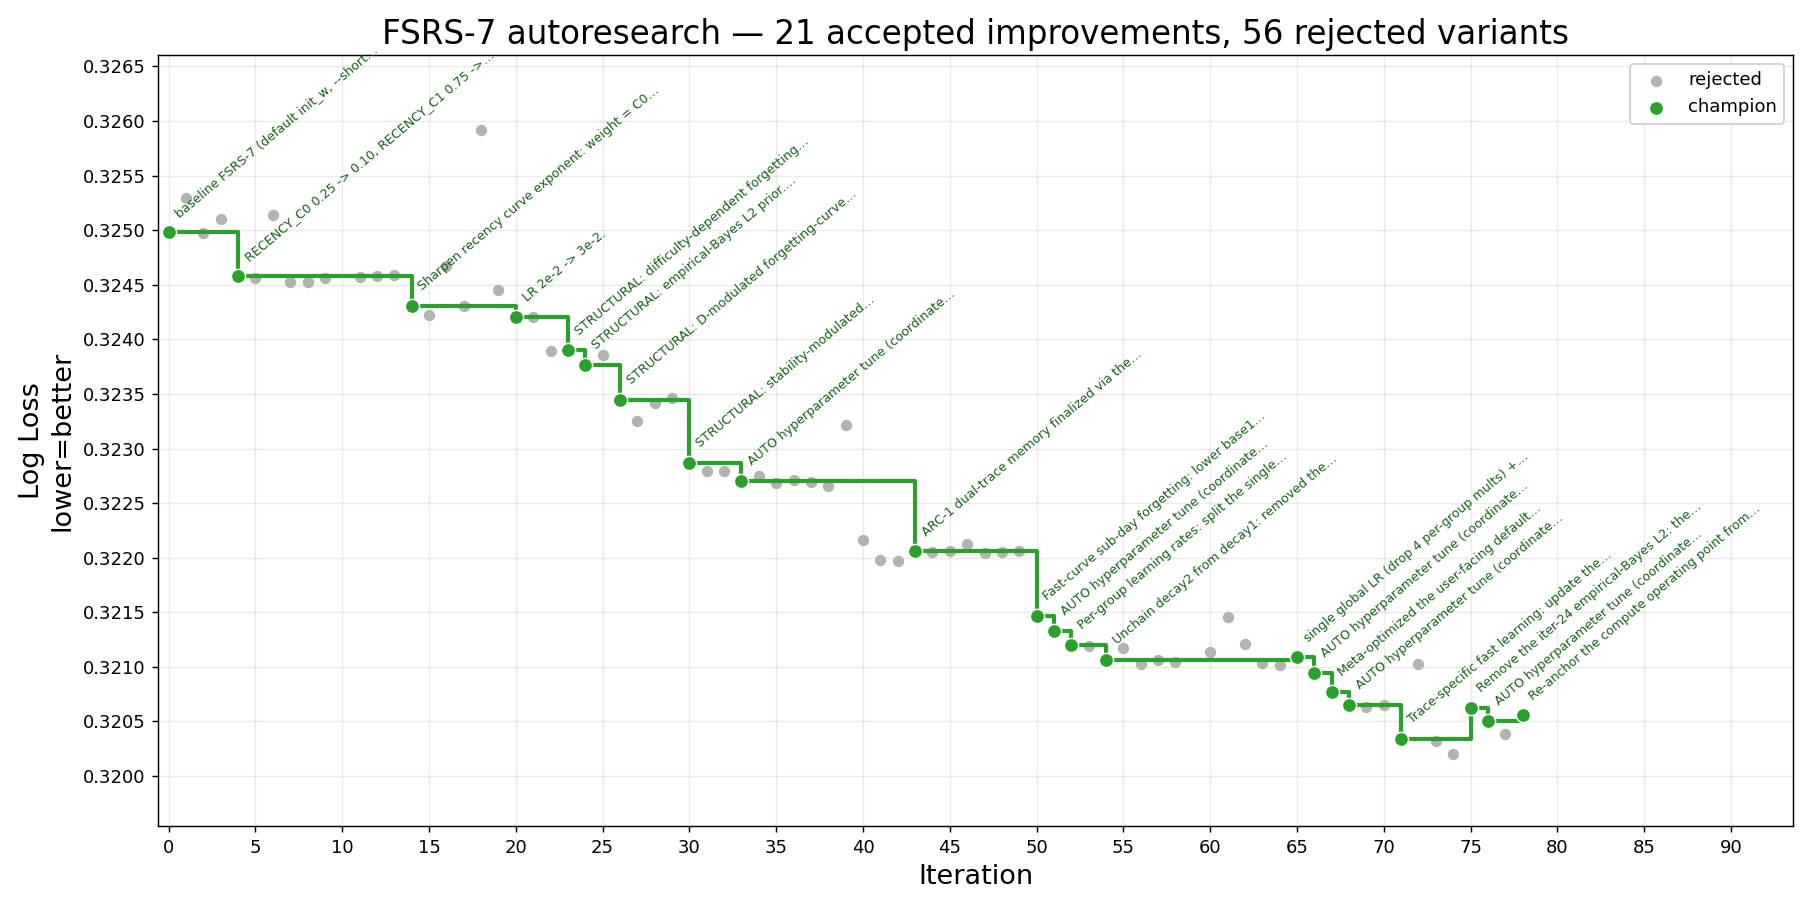
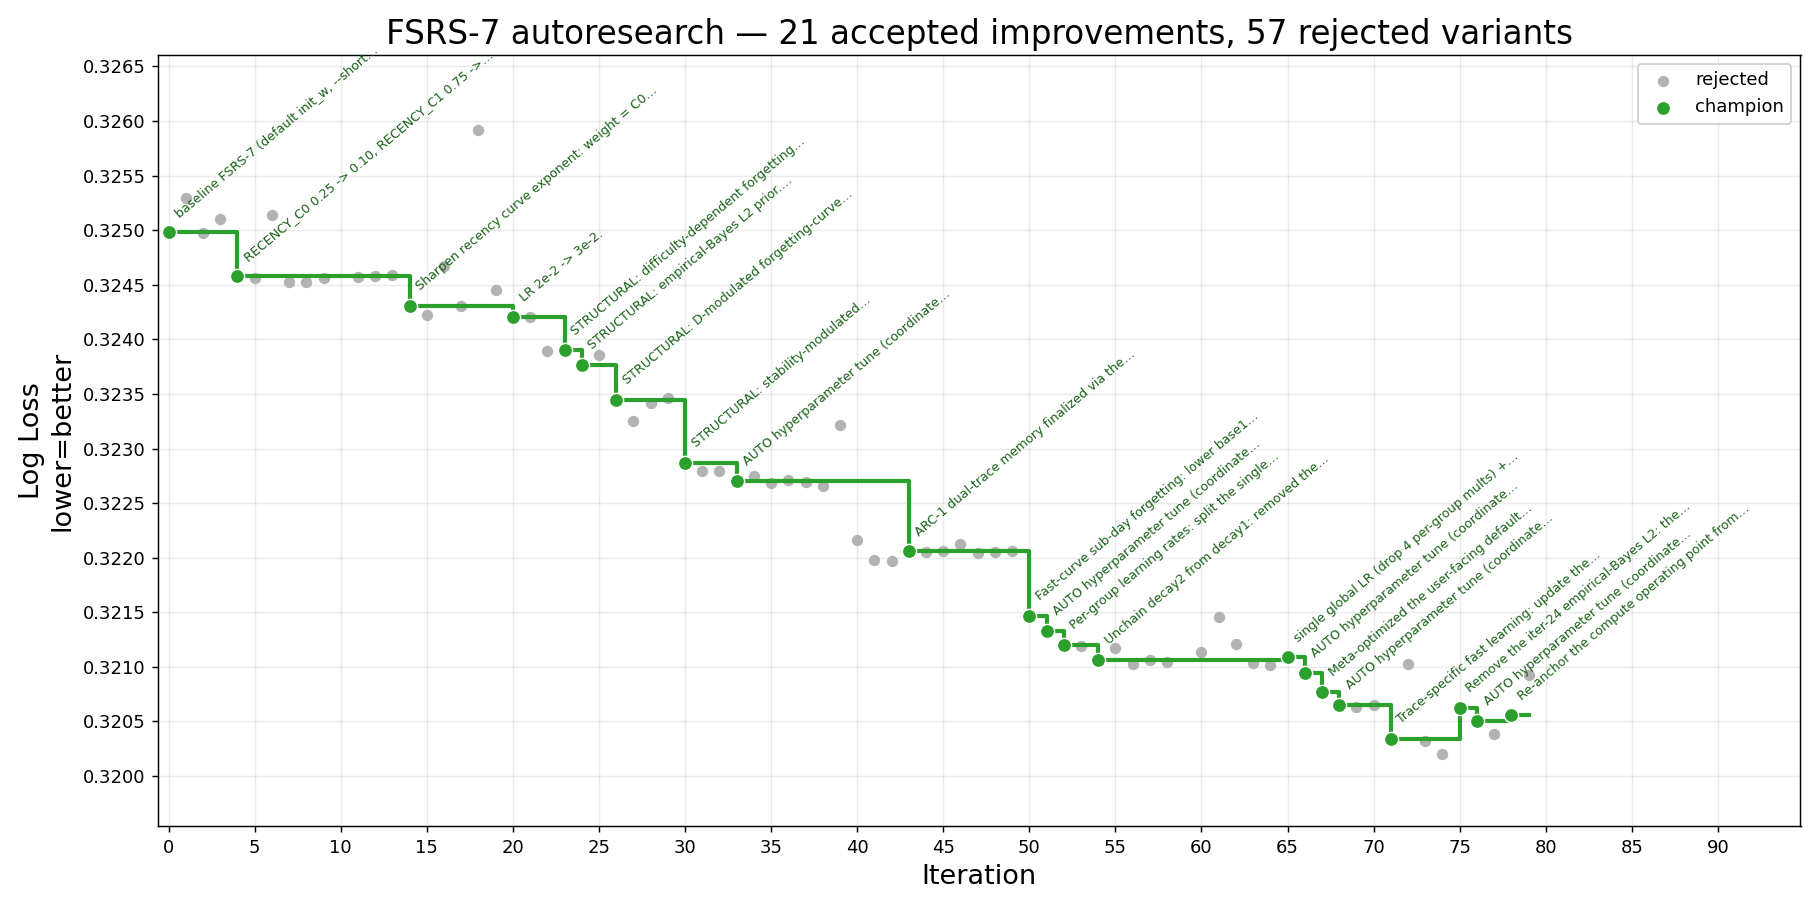
iter 79 (rejected): concave surprise response -- convex confirmed better (+0.00037 worse)

diff --git a/result/history.md b/result/history.md
@@ -1,6 +1,6 @@
 # FSRS-7 autoresearch — iteration history
 
-_78 record(s). Generated from `history.jsonl` — do not edit by hand._
+_79 record(s). Generated from `history.jsonl` — do not edit by hand._
 
 | # | Time (UTC) | Thresh. | LL before | LL after | Δ LL | Cx before | Cx after | Δ Cx % | Status | Summary |
 |--:|---|---:|---:|---:|---:|---:|---:|---:|---|---|
@@ -82,3 +82,4 @@ _78 record(s). Generated from `history.jsonl` — do not edit by hand._
 | 76 | 2026-06-03T18:13:39 | 0.0001 | 0.32063 | 0.32051 | +0.00013 | 16,798 | 16,798 | +0.00% | accepted | AUTO hyperparameter tune (coordinate descent over training hyperparameters (LR/betas/L2/recency C0+EXP/batch_size)): LR 0.03->0.0133, PENALTY_W_L2 0.5->0.3333, BETA2 0.9704->0.9913, BATCH_SIZE 256->128. |
 | 77 | 2026-06-03T18:28:10 | 0.0002 | 0.32051 | 0.32039 | +0.00012 | 16,798 | 16,820 | +0.13% | rejected | Add w[36]=d_sinc_pow: replace the linear difficulty-damping (11-d) in s_inc with (11-d)^d_sinc_pow, shared across slow+fast updates; +1 param, default 1.0, clamp [0.2,3.0], sigma 0.3. |
 | 78 | 2026-06-03T21:09:31 | — | 0.32051 | 0.32056 | -0.00005 | 16,827 | 16,827 | +0.00% | accepted | Re-anchor the compute operating point from (n_epoch=8, batch_size=128) to (8, 256) via the epoch x batch Pareto grid, and fine-tune LR/betas/L2/recency at the new operating point. |
+| 79 | 2026-06-03T21:27:49 | 0.0001 | 0.32056 | 0.32093 | -0.00037 | 16,827 | 16,828 | +0.01% | rejected | Changed the success-path stability-increase surprise response from convex (exp(c*(1-R))-1) to concave-saturating (1-exp(-c*(1-R))) in fsrs7_stability_after_review_one_term (applies to both traces; 0 new params). |
